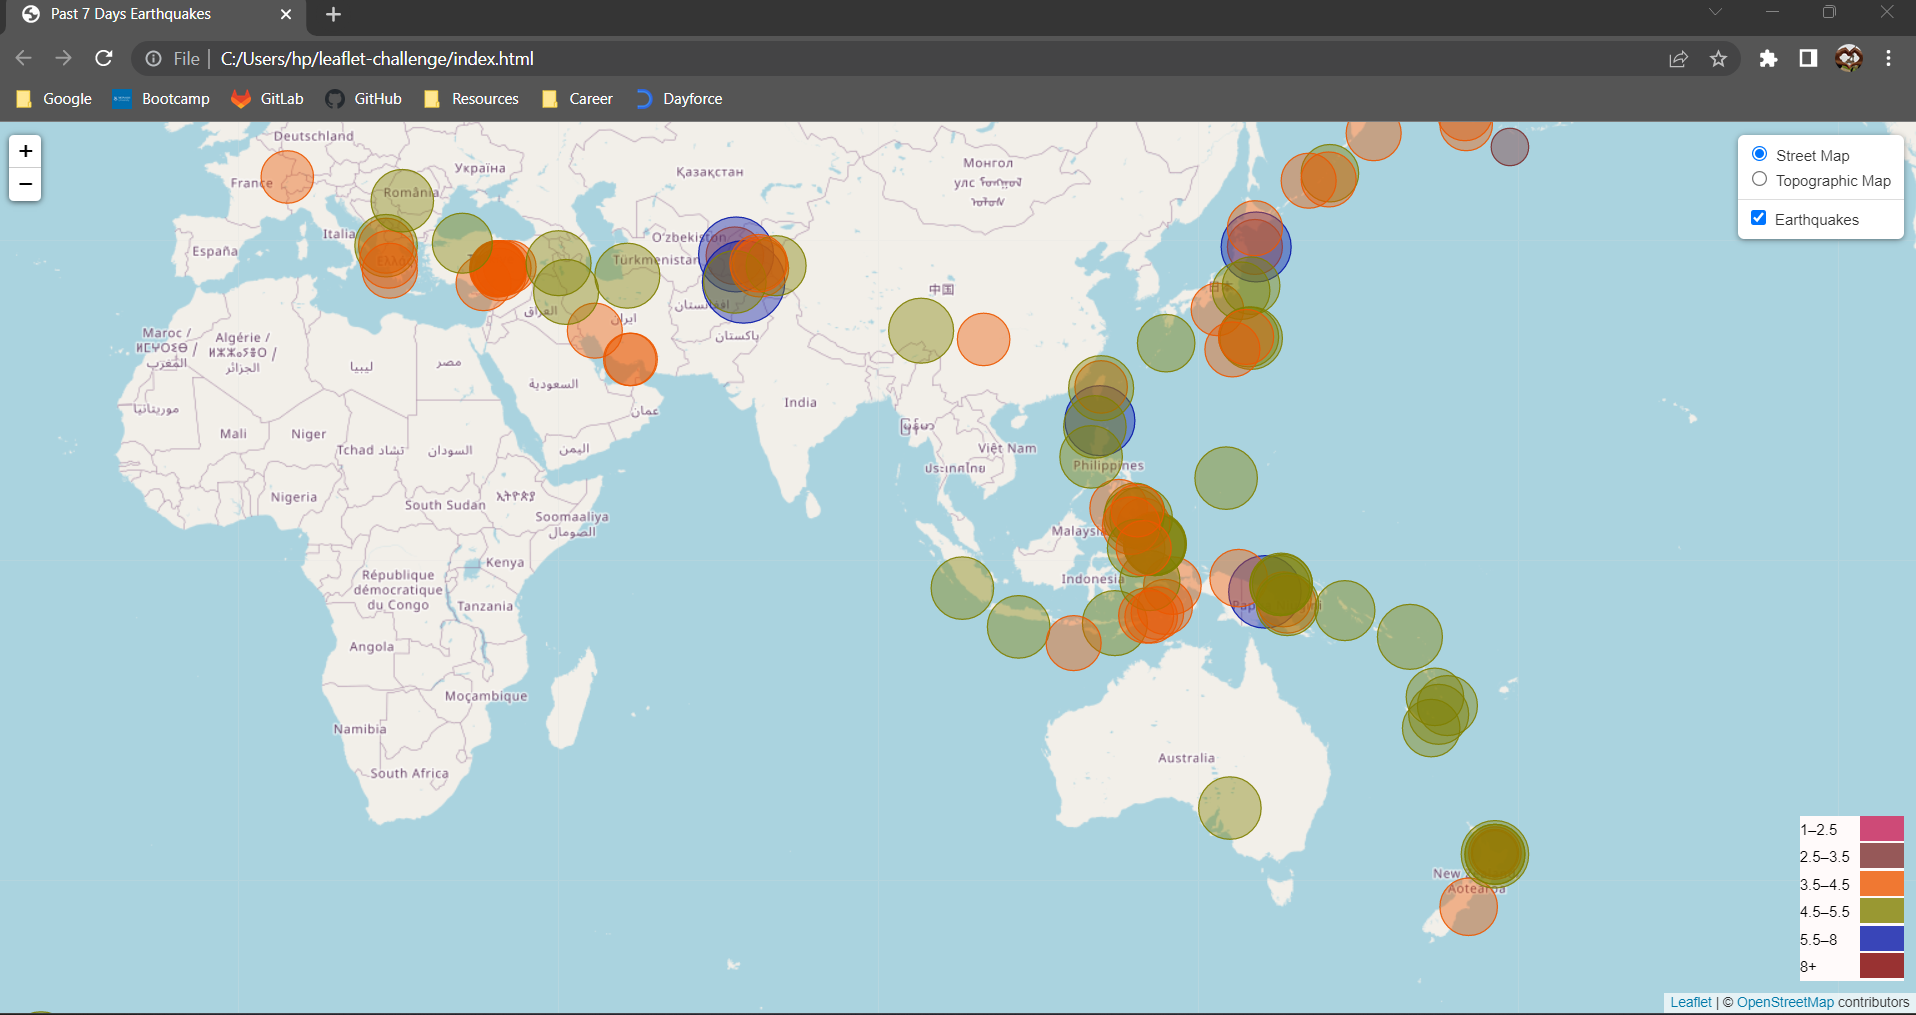
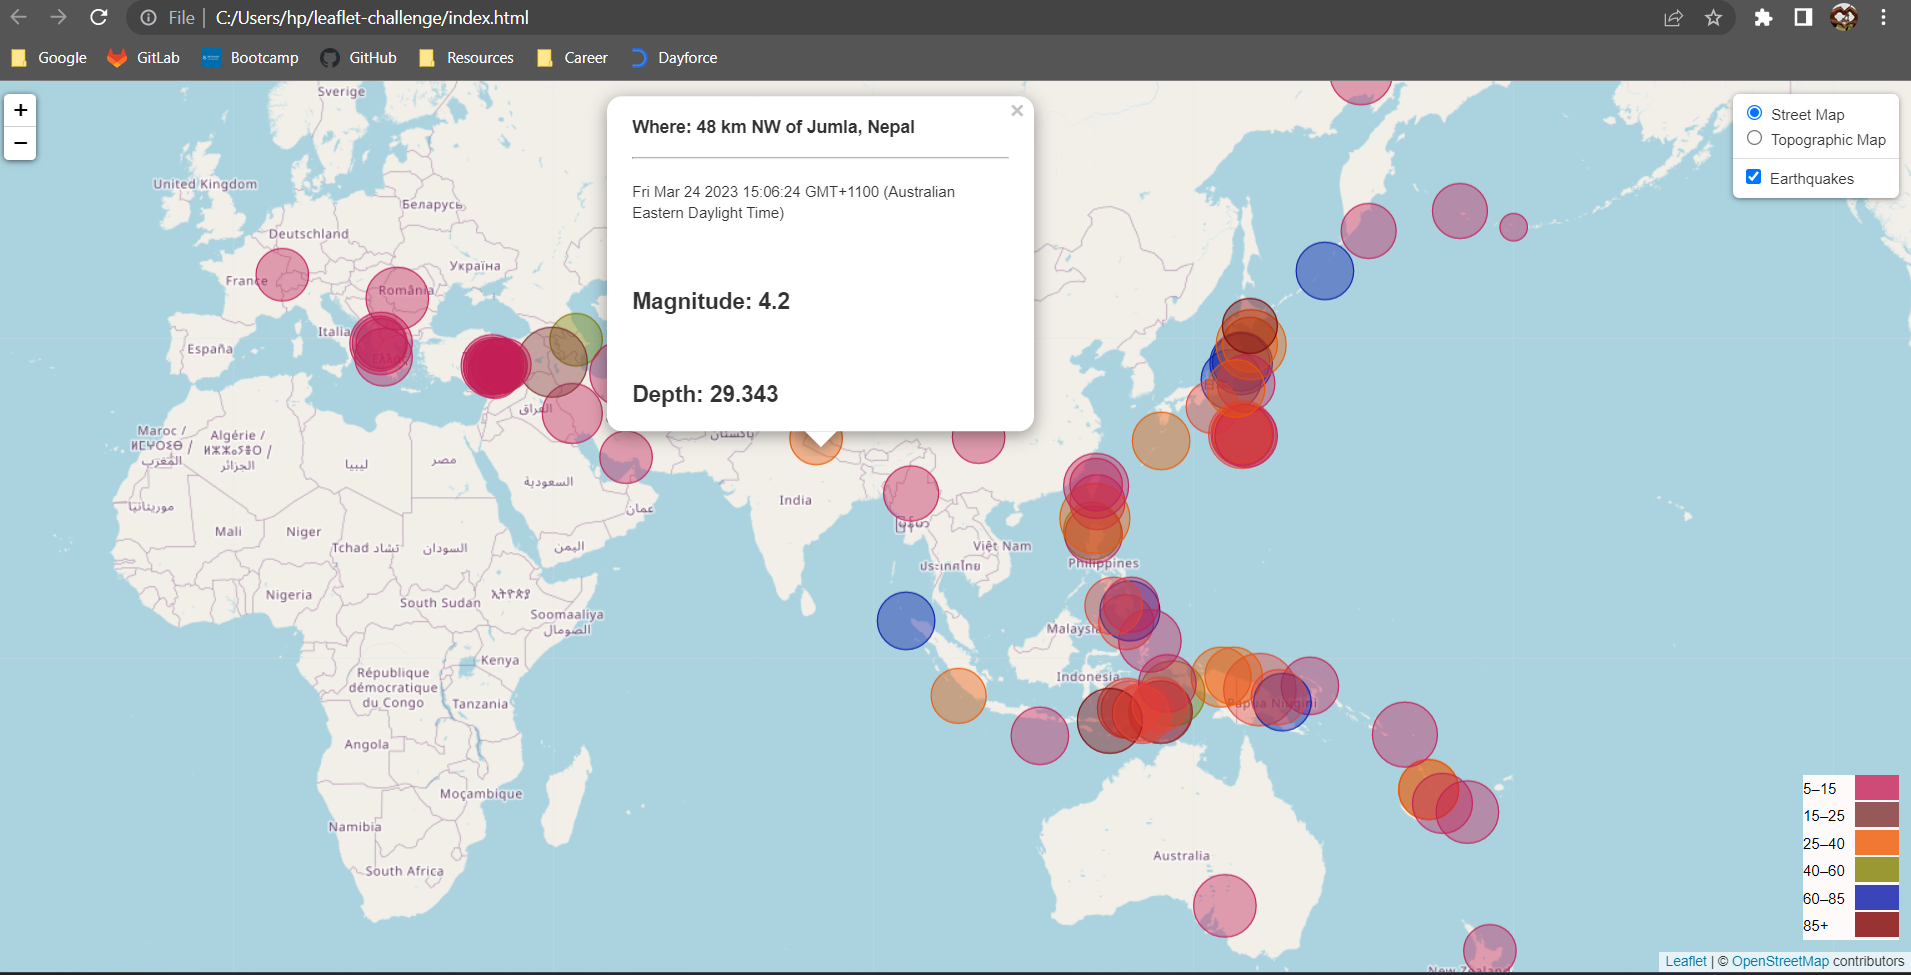
updated code

diff --git a/static/js/logic.js b/static/js/logic.js
@@ -14,7 +14,7 @@ function createFeatures(earthquakeData) {
 
   function onEachFeature(feature, layer) {
     layer.bindPopup("<h3> Where: " + feature.properties.place + "</h3><hr><p>" + new Date(feature.properties.time) + "</p>" + 
-    "<br><h2> Magnitude: " + feature.properties.mag + "</h2>");
+    "<br><h2> Magnitude: " + feature.properties.mag + "</h2>" + "</p>" + "<br><h2> Depth: " + feature.geometry.coordinates[2] + "</h2>");
 
   }
 
@@ -24,8 +24,8 @@ function createFeatures(earthquakeData) {
 
     let options = {
         radius:feature.properties.mag*5,
-        fillColor: magnitudeColor(feature.properties.mag),
-        color: magnitudeColor(feature.properties.mag),
+        fillColor: depthColor(feature.geometry.coordinates[2]),
+        color: depthColor(feature.geometry.coordinates[2]),
         weight: 1,
         opacity: 0.9,
         fillOpacity: 0.40
@@ -49,20 +49,20 @@ function createFeatures(earthquakeData) {
 
 // Color circles based on magntitude
 
-function magnitudeColor(magnitude) {
+function depthColor(depth) {
 
   switch(true) {
-      case (1.0 <= magnitude && magnitude <= 2.5):
+      case (5 <= depth && depth <= 15):
         return "rgb(194, 30, 86)";
-      case (2.5 <= magnitude && magnitude <= 3.5):
+      case (15 <= depth && depth <= 25):
         return "rgb(124, 48, 48)";
-      case (3.5 <= magnitude && magnitude <= 4.5):
+      case (25 <= depth && depth <= 40):
         return "rgb(236, 88, 0)";
-      case (4.5 <= magnitude && magnitude <= 5.5):
+      case (40 <= depth && depth <= 60):
         return "rgb(128, 128, 0)";
-      case (5.5 <= magnitude && magnitude <= 8.0):
+      case (60 <= depth && depth <= 85):
         return "rgb(8, 24, 168)";
-      case (8.0 <= magnitude && magnitude <= 10.0):
+      case (85 <= depth && depth <= 120):
         return "rgb(128, 0, 0)";
       default:
         return "rgb(227, 66, 52)";
@@ -77,14 +77,14 @@ let legend = L.control({position: 'bottomright'});
 legend.onAdd = function (map) {
 
     let div = L.DomUtil.create('div', 'info legend'),
-        grades = [1.0, 2.5, 3.5, 4.5, 5.5, 8.0],
+        grades = [5, 15, 25, 40, 60, 85],
         labels = [];
 
     // loop through density intervals
 
     for (let i = 0; i < grades.length; i++) {
         div.innerHTML +=
-            '<i style="background:' + magnitudeColor(grades[i] + 1) + '"></i> ' +
+            '<i style="background:' + depthColor(grades[i] + 1) + '"></i> ' +
             grades[i] + (grades[i + 1] ? '&ndash;' + grades[i + 1] + '<br>' : '+');
     }
 
